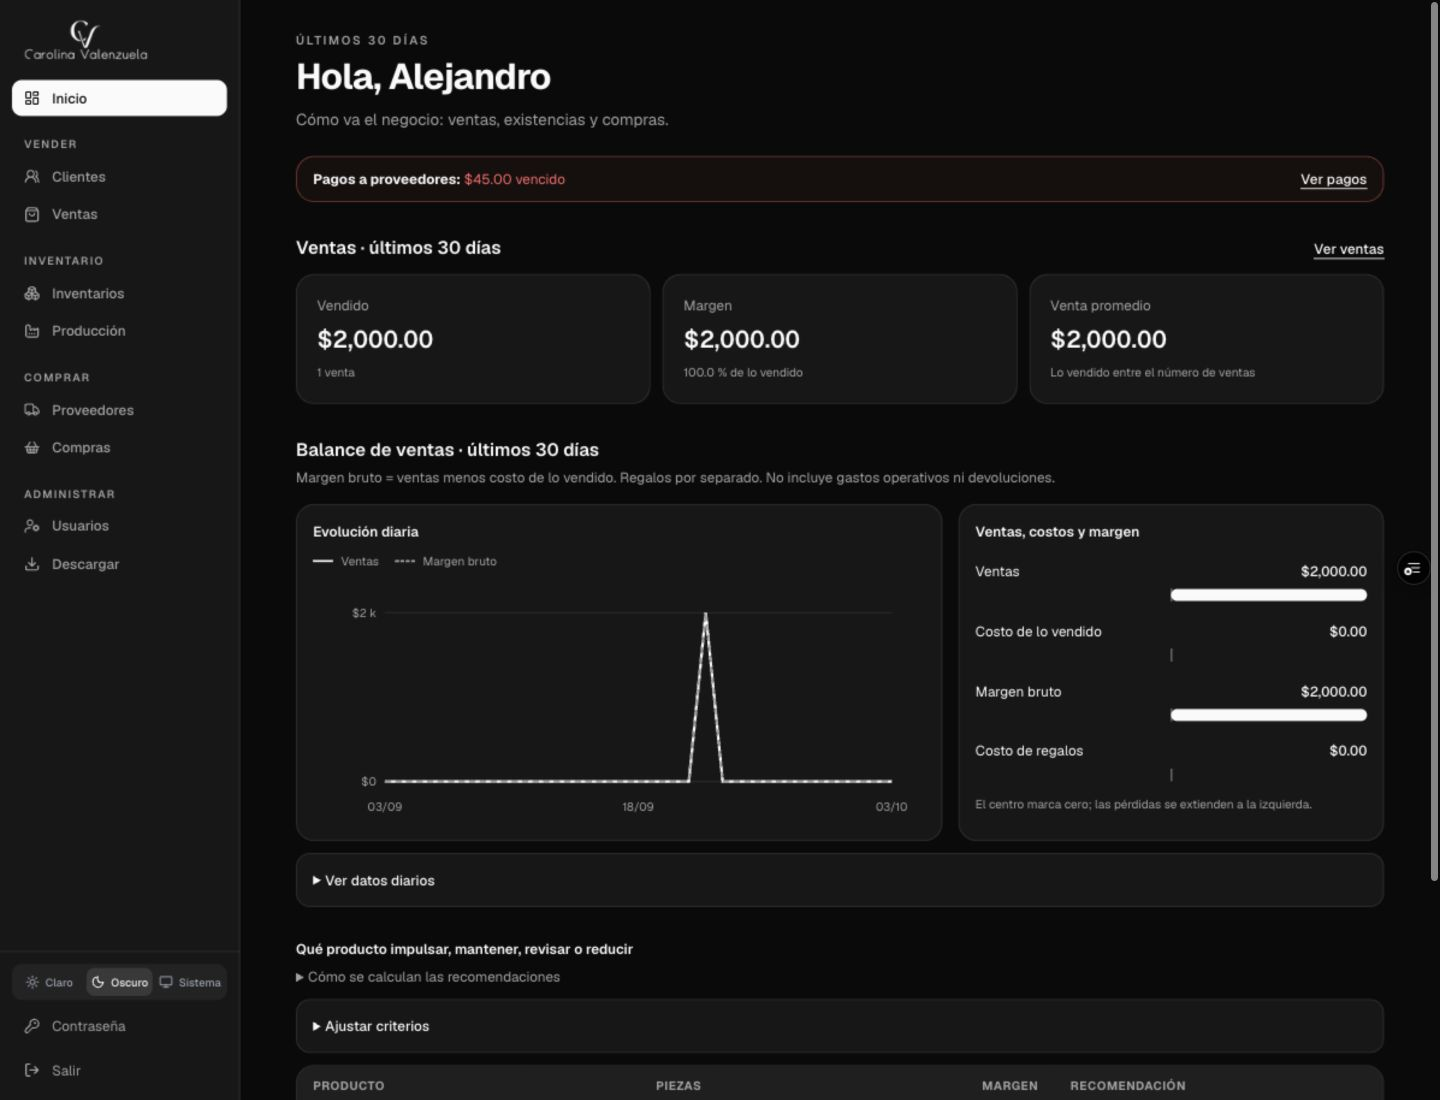
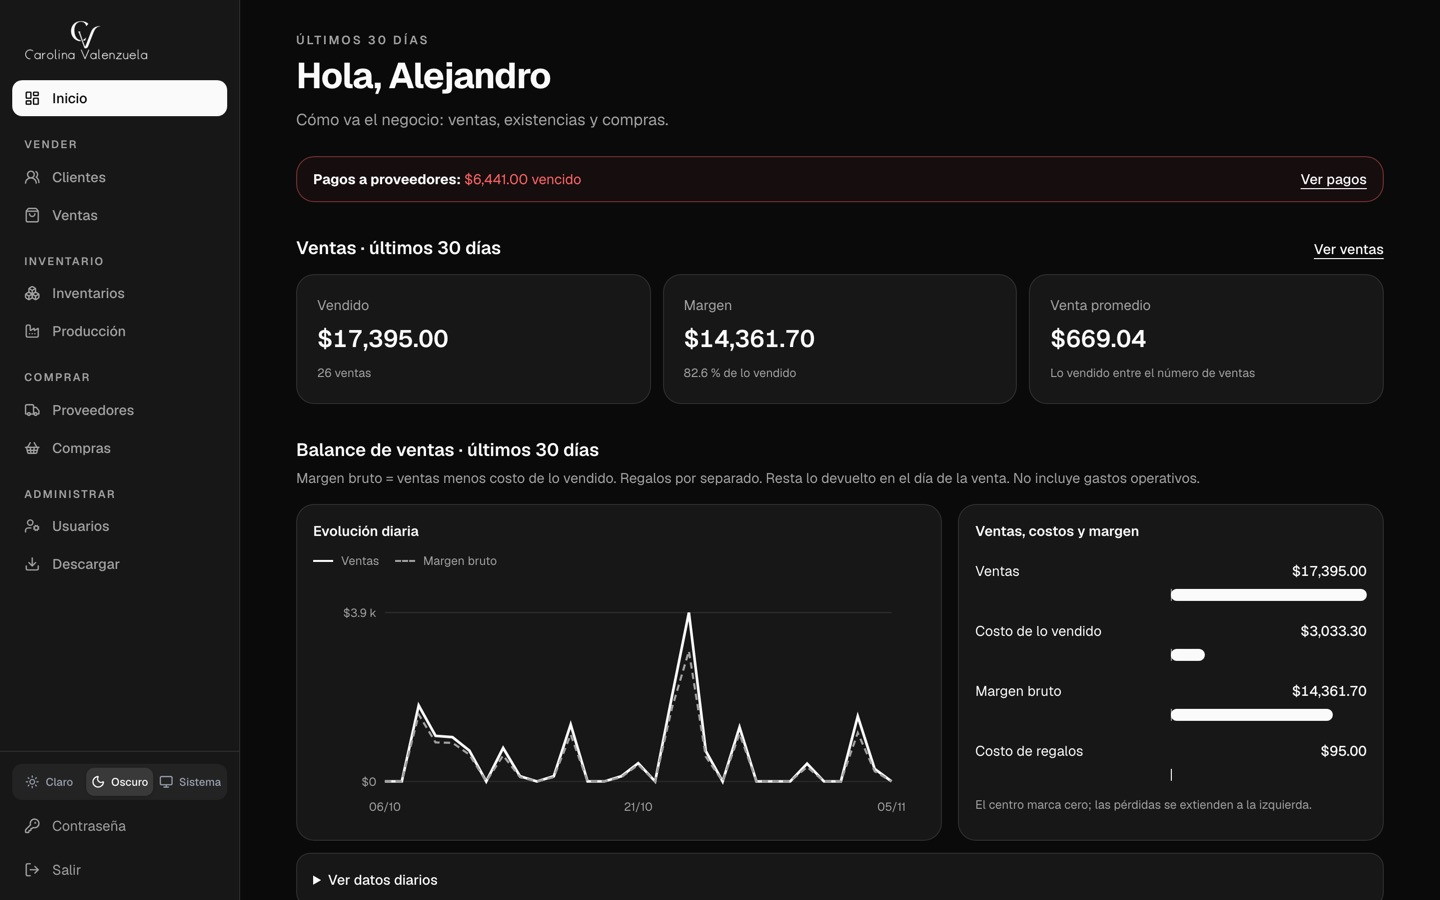
Capturas nuevas de Carolina y Cibertransportes con datos de prueba

diff --git a/index.html b/index.html
@@ -231,10 +231,10 @@ figure.project-preview { margin: 8px 0 0; }
         <aside class="use"><strong>En producción desde septiembre de 2026</strong><p>La aplicación reúne los módulos de operación, un tablero de indicadores y exportaciones a CSV.</p></aside>
       </div>
       <figure class="project-preview">
-        <a href="assets/carolina-dashboard.jpg" target="_blank" rel="noopener" aria-label="Abrir captura del tablero de Carolina en tamaño completo"><img src="assets/carolina-dashboard.jpg" width="1440" height="1100" loading="lazy" alt="Tablero de Carolina Valenzuela con resumen de ventas, margen y gráficos diarios en modo oscuro."></a>
+        <a href="assets/carolina-dashboard.jpg" target="_blank" rel="noopener" aria-label="Abrir captura del tablero de Carolina en tamaño completo"><img src="assets/carolina-dashboard.jpg" width="1440" height="900" loading="lazy" alt="Inicio del sistema de Carolina Valenzuela con datos de prueba: vendido, margen, venta promedio y gráfica diaria de ventas."></a>
         <figcaption>Tablero de ventas y márgenes. Captura de la versión de desarrollo con datos de prueba; las cifras no representan resultados del negocio.</figcaption>
       </figure>
-      <details class="preview-secondary"><summary>Ver el control de inventario</summary><img src="assets/carolina-inventario.jpg" width="1440" height="500" loading="lazy" alt="Inventario de prueba con pestañas para productos, materias primas y regalos; muestra existencias, mínimos, precios y movimientos."><p>La misma aplicación, con datos de prueba: existencias y mínimos por artículo, búsqueda y registro de movimientos.</p></details>
+      <details class="preview-secondary"><summary>Ver el control de inventario</summary><img src="assets/carolina-inventario.jpg" width="1440" height="900" loading="lazy" alt="Inventario de productos con datos de prueba: existencias, avisos de bajo mínimo y sin existencia, última entrada, precio y costo por unidad."><p>La misma aplicación, con datos de prueba: existencias, avisos de mínimo, última entrada y costo por unidad.</p></details>
       <div class="case-more">
         <div>
           <h4>Lo que incluye</h4>
@@ -269,6 +269,11 @@ figure.project-preview { margin: 8px 0 0; }
         </div>
         <aside class="use"><strong>En uso diario con datos reales</strong><p>Lo construí para la empresa de transporte de mi familia, que opera entre 5 y 6 unidades. Ahora saben cada cuánto se acaba una balata y en qué unidad dura más.</p></aside>
       </div>
+      <figure class="project-preview">
+        <a href="assets/flota-dashboard.jpg" target="_blank" rel="noopener" aria-label="Abrir captura del tablero de Cibertransportes en tamaño completo"><img src="assets/flota-dashboard.jpg" width="1440" height="900" loading="lazy" alt="Tablero del sistema de transporte con datos de prueba: ingresos, gastos, utilidad y margen del mes, y gráfica de seis meses."></a>
+        <figcaption>Tablero con ingresos, gastos y utilidad del mes. Captura de una copia con datos de prueba; las cifras no son de la empresa.</figcaption>
+      </figure>
+      <details class="preview-secondary"><summary>Ver el reporte por viaje</summary><img src="assets/flota-reportes.jpg" width="1440" height="900" loading="lazy" alt="Reporte de viajes con datos de prueba: flete, gastos y utilidad de cada viaje, con exportación a Excel y PDF."><p>El mismo sistema, con datos de prueba: flete, gastos y utilidad de cada viaje, exportable a Excel y PDF.</p></details>
       <div class="case-more">
         <div>
           <h4>Lo que incluye</h4>
